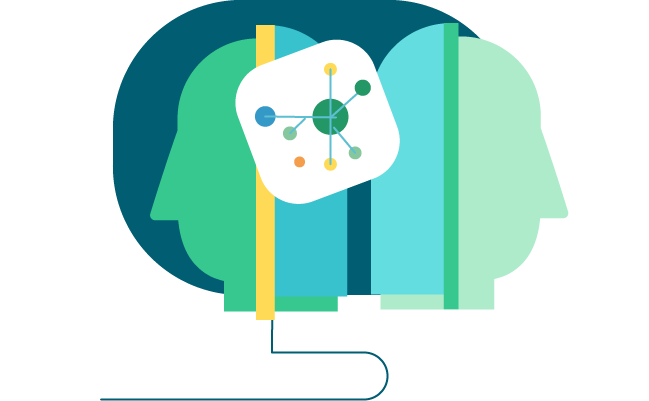
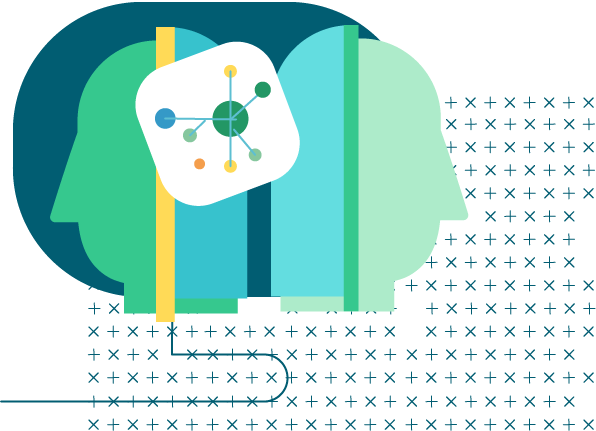
图片尺寸裁剪

diff --git a/src/styles/features.scss b/src/styles/features.scss
@@ -119,6 +119,7 @@
   background-color: $cNormalW;
   position: relative;
   padding-top: 70 * $w;
+  padding-bottom: 130 * $w;
   width: 1735 * $w;
 
   .border {
@@ -150,7 +151,7 @@
     }
 
     &.bottom1 {
-      height: 190 * $w;
+      height: 228 * $w;
       left: 256 * $w;
       bottom: 0;
       background-color: $cLineFeaturesInner;
@@ -166,7 +167,6 @@
 }
 
 .section {
-  min-height: 300px;
 
   .img {
     display: inline-block;
@@ -208,6 +208,7 @@
       padding-right: 220 * $w;
     }
     .img {
+      padding-left: 19 * $w;
       width: 600 * $w;
       text-align: right;
     }
@@ -220,6 +221,7 @@
       padding-right: 145 * $w;
     }
     .img {
+      padding-right: 90 * $w;
       width: 660 * $w;
       text-align: left;
     }
